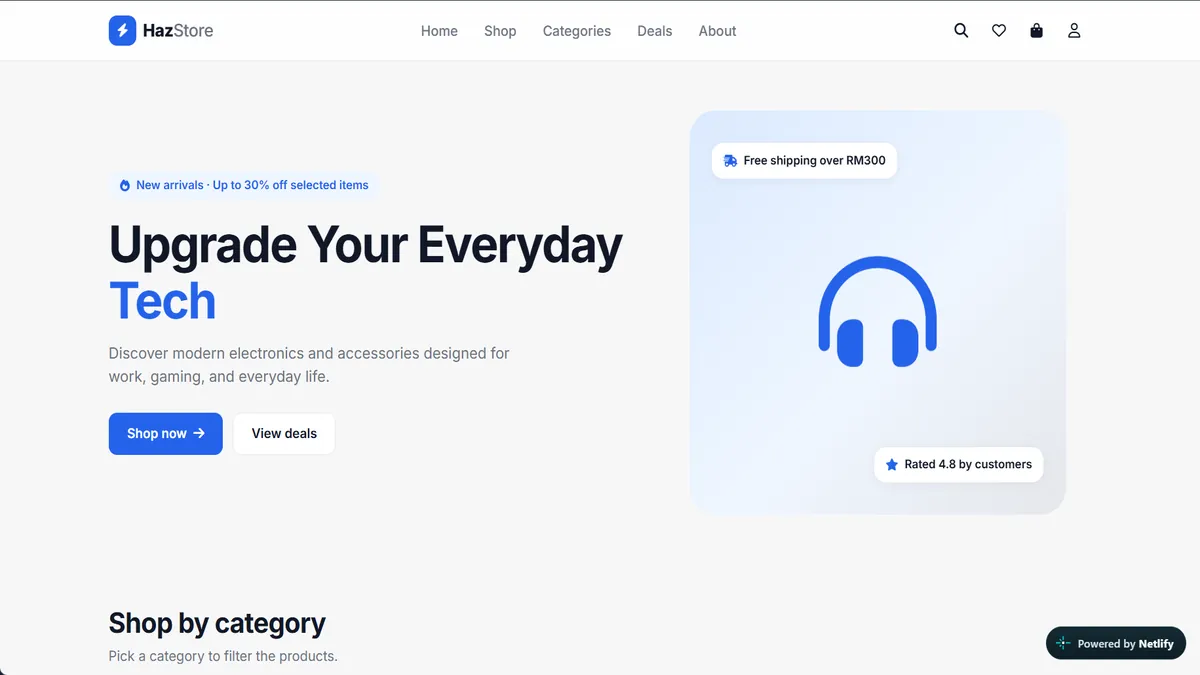
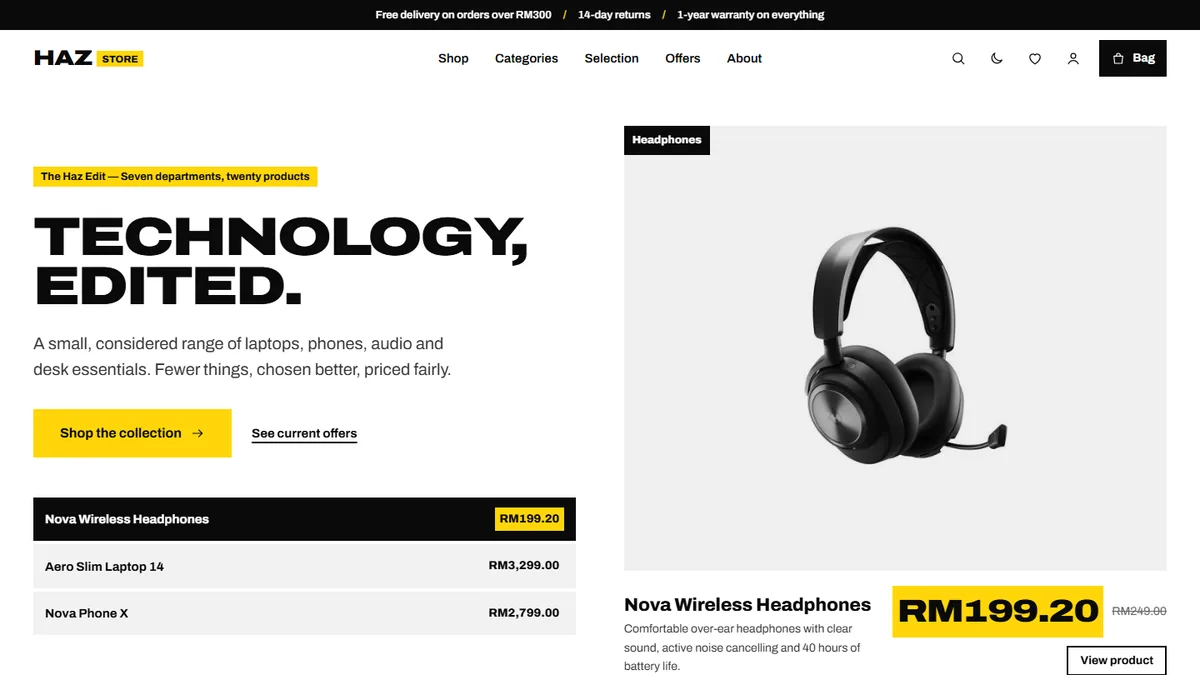
Update HazStore card for the grotesk and yellow redesign

diff --git a/index.html b/index.html
@@ -527,7 +527,7 @@
           <article id="project-hazstore" class="project-card project-row reveal" data-category="web">
             <a class="project-media" href="https://hazstore-ecommerce.netlify.app" target="_blank" rel="noopener"
                tabindex="-1" aria-hidden="true" data-cursor="Open live demo">
-              <img src="assets/images/hazstore.webp" alt="HazStore electronics store product grid"
+              <img src="assets/images/hazstore.webp" alt="HazStore home page with a bold black headline, a yellow Shop the collection button and featured wireless headphones"
                    width="1200" height="675" loading="lazy" />
             </a>
             <div class="project-info">
